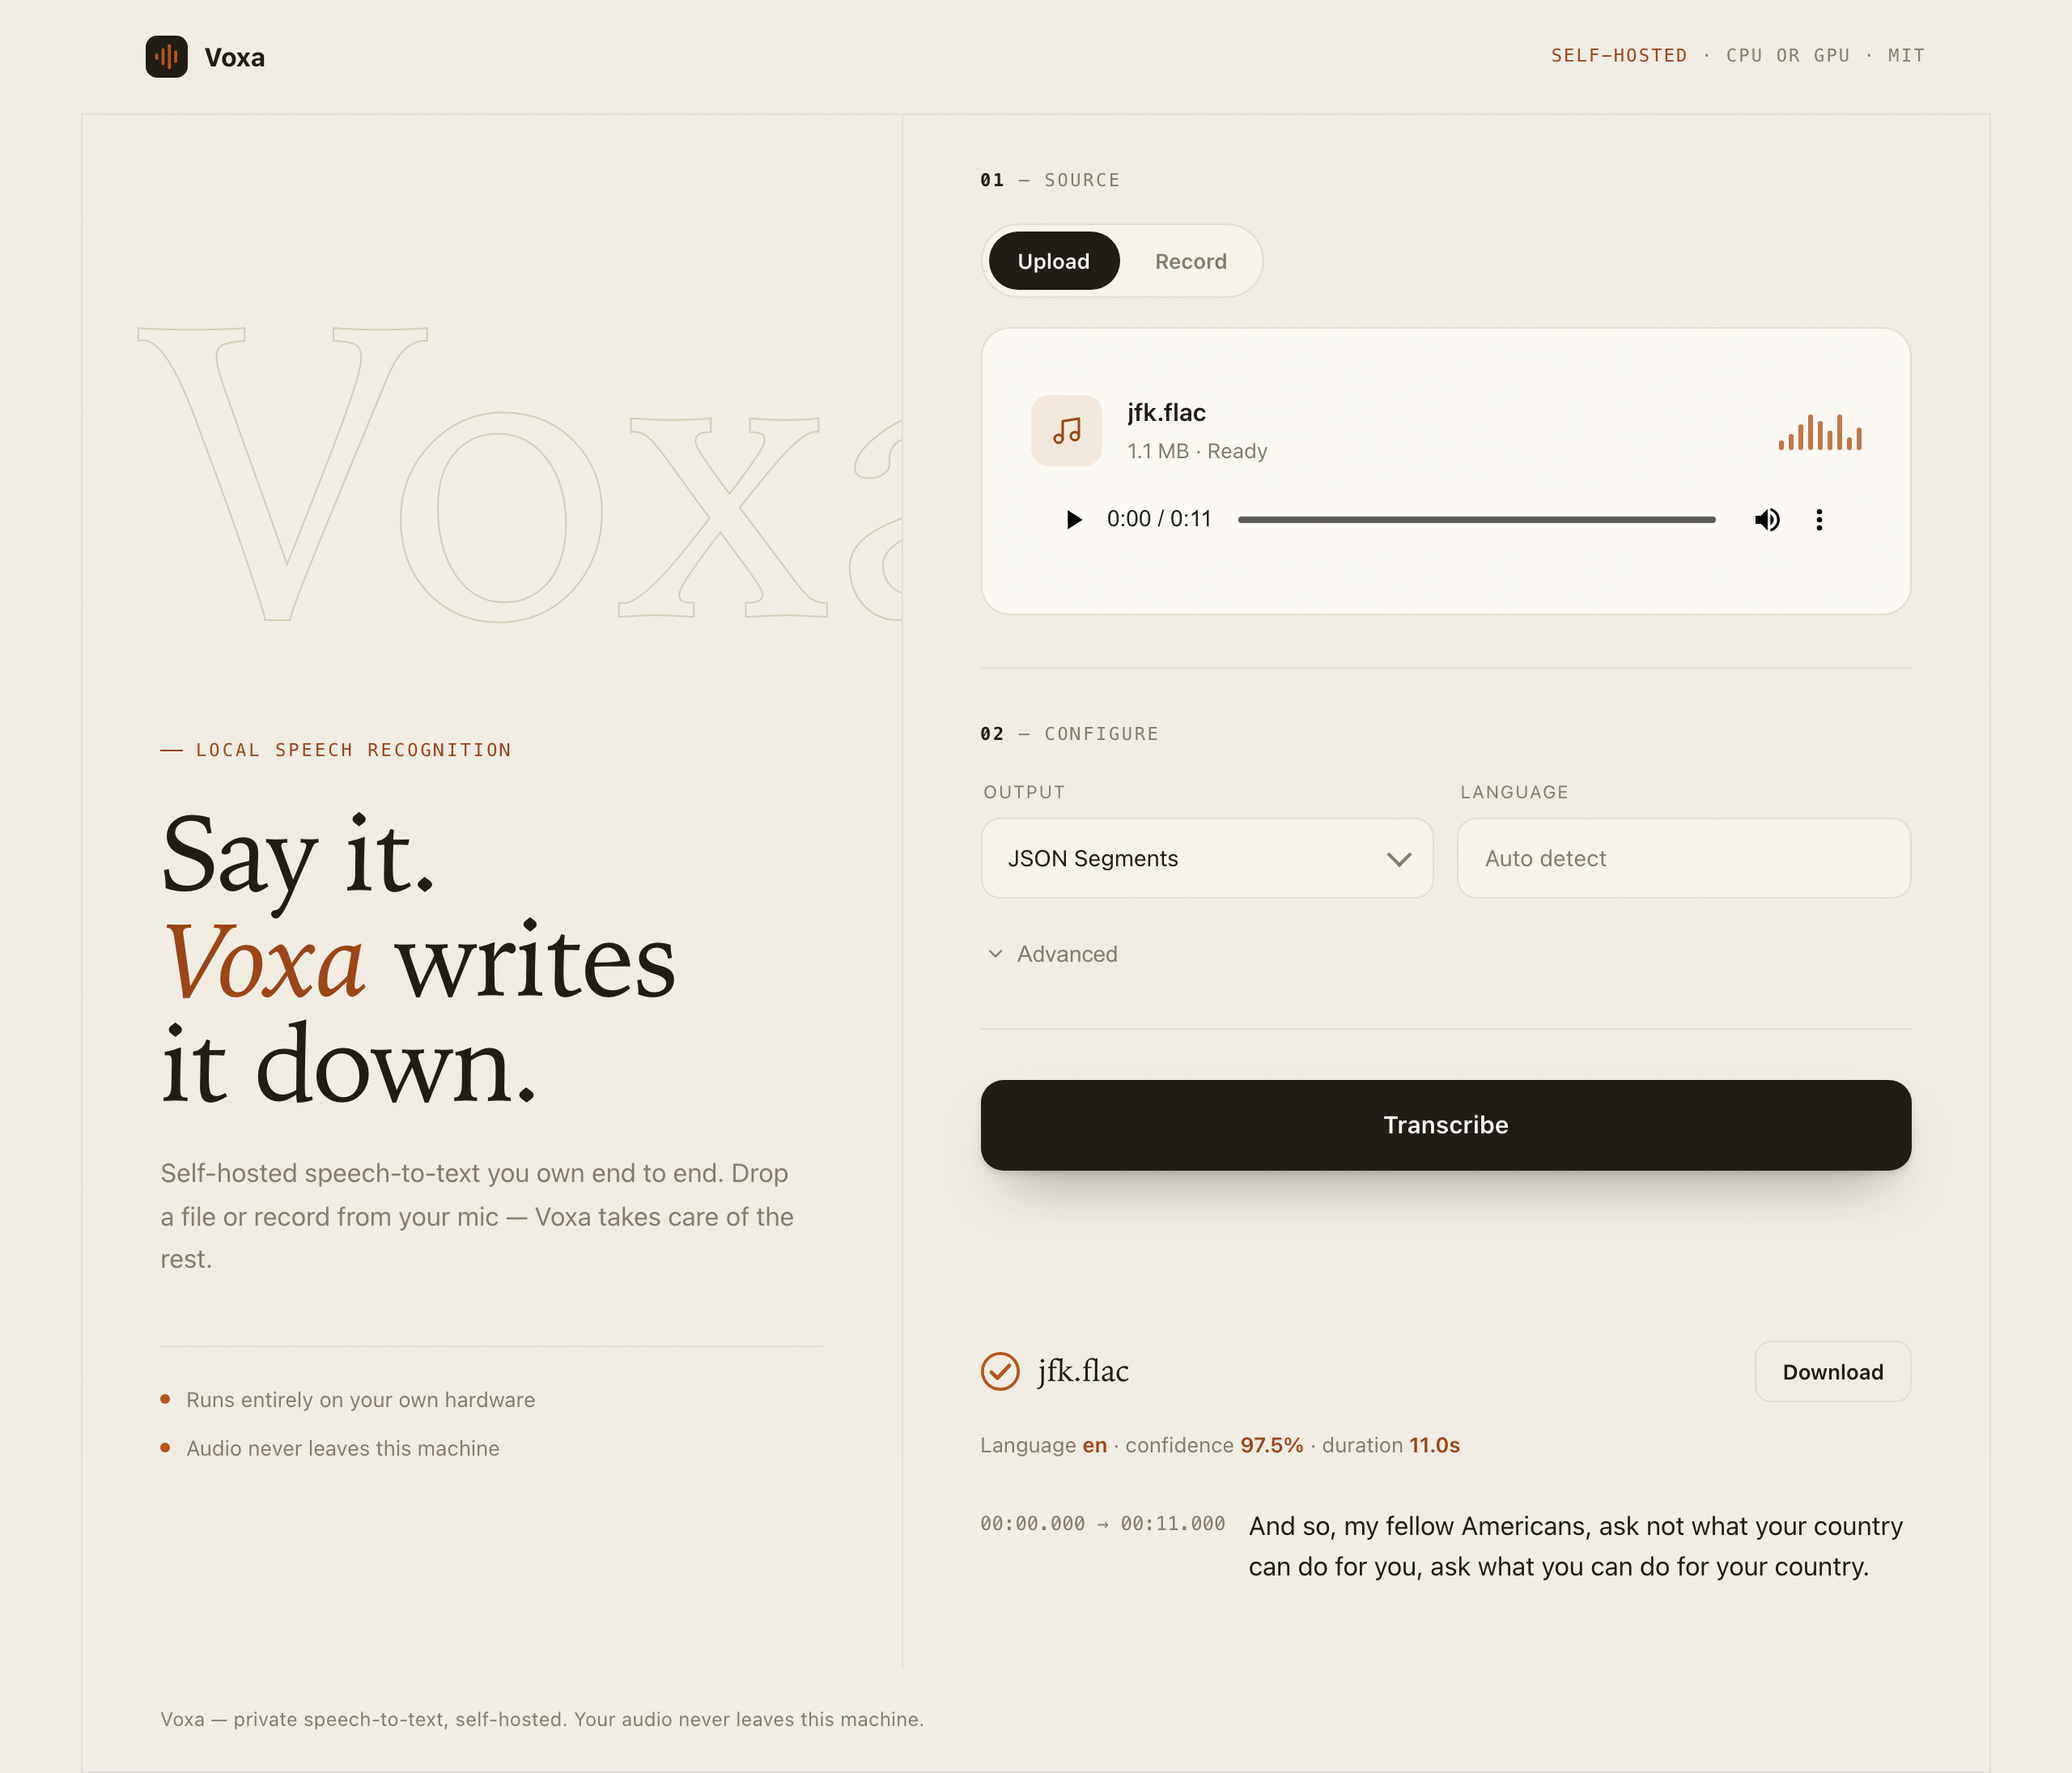
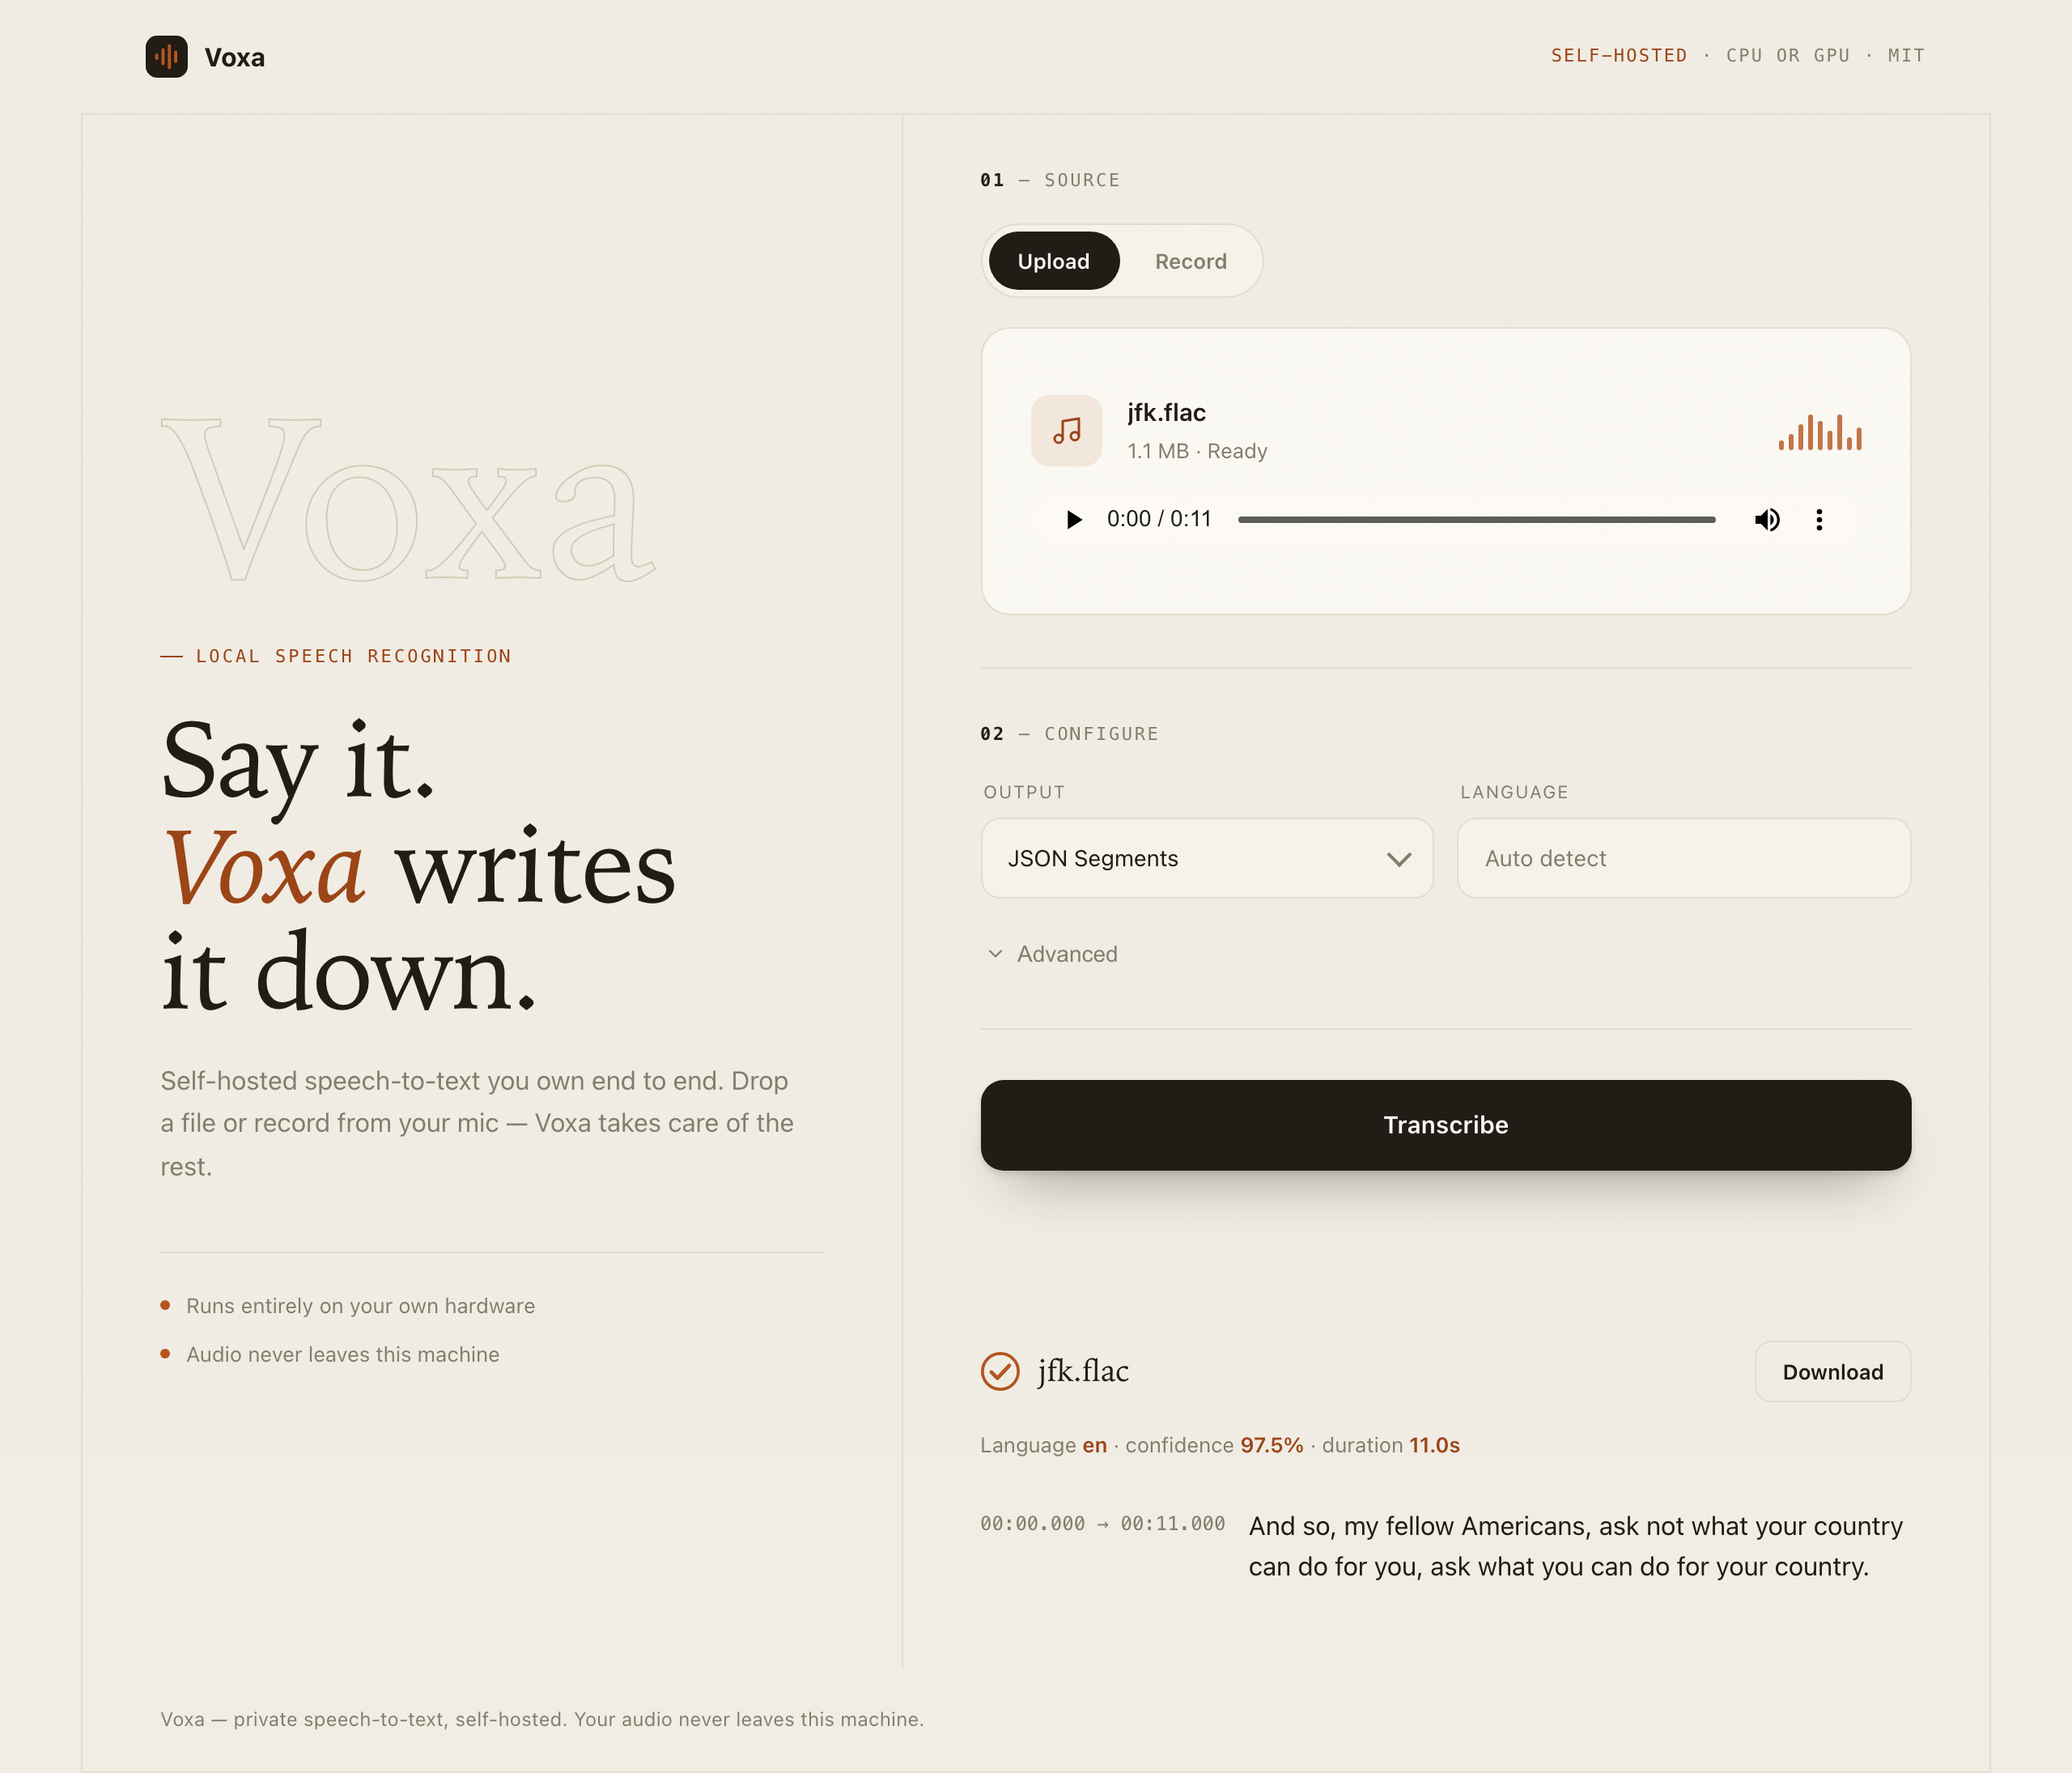
docs: soften fork wording to "based on", update screenshot
Reword NOTICE/LICENSE/comments from "fork of" to "based on" faster-whisper.
The attribution facts stay accurate (voxa/engine/ contains code derived
from faster-whisper, © 2023 SYSTRAN, MIT notice retained verbatim) since
that's a legal requirement, not a style choice — only the framing softens.

Screenshot updated to reflect the watermark clipping fix.

diff --git a/voxa/core.py b/voxa/core.py
@@ -3,7 +3,7 @@
 The one rule that matters here: load the model ONCE, reuse it. Rebuilding
 WhisperModel per request is the number-one performance mistake.
 
-The engine lives in voxa.engine (a fork of faster-whisper, MIT — see
+The engine lives in voxa.engine (based on faster-whisper, MIT — see
 voxa/engine/LICENSE). Voxa is self-contained: it depends on no external
 faster-whisper package.
 """

diff --git a/voxa/engine/__init__.py b/voxa/engine/__init__.py
@@ -1,4 +1,4 @@
-# voxa.engine — forked from faster-whisper (© 2023 SYSTRAN, MIT). See LICENSE
+# voxa.engine — based on faster-whisper (© 2023 SYSTRAN, MIT). See LICENSE
 # in this directory. This is Voxa's own vendored transcription engine; Voxa does
 # not depend on any external faster-whisper package.
 from voxa.engine.audio import decode_audio
